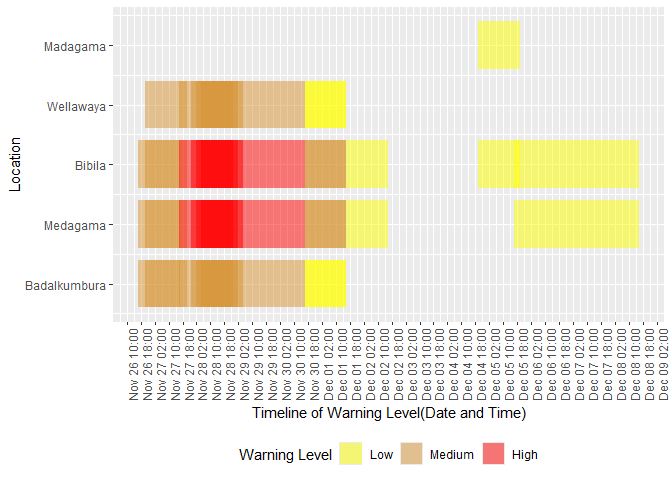
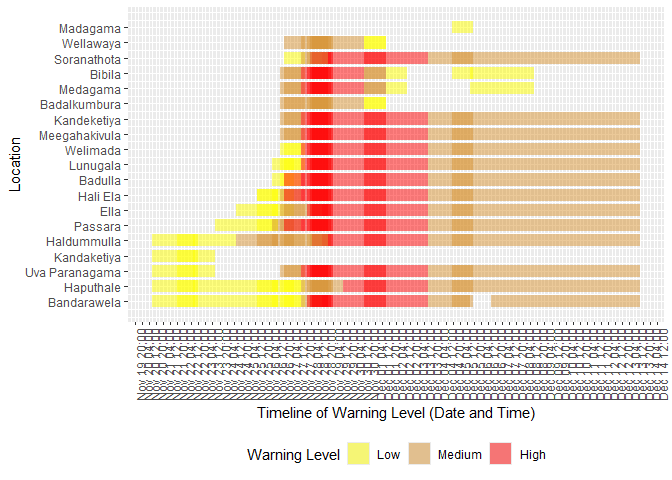
updated

diff --git a/README.md b/README.md
@@ -45,7 +45,7 @@ head(ditwah_landslides_warnings)
 ```
 
 ``` r
-viz_landslide_warnings_from_to(province = "", district = "Monaragala", interactivity=FALSE)
+viz_landslide_warnings_from_to(data=ditwah_landslides_warnings, province = "Uva", district = "All", interactivity=FALSE)
 ```
 
 <img src="man/figures/README-unnamed-chunk-2-1.png" width="100%" height="100%" />
